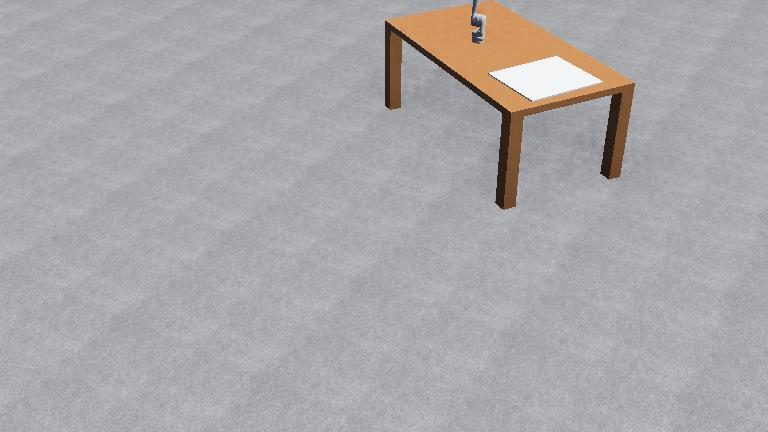
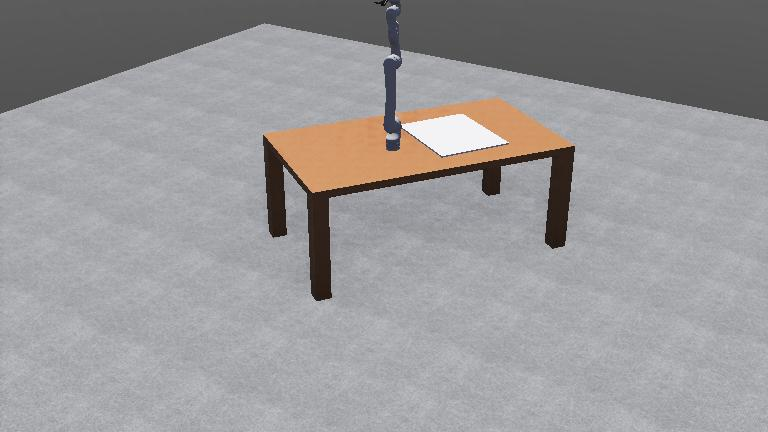
pen going over paper

Changed region(s): [[0.0, 0.0, 1.0, 0.6921], [0.4688, 0.4815, 0.5625, 0.5417]]

diff --git a/controllers/my_controller/my_controller.py b/controllers/my_controller/my_controller.py
@@ -10,12 +10,14 @@ robot = Robot()
 # get the time step of the current world.
 timestep = int(robot.getBasicTimeStep())
 
-target_shoulder_position = 0.6
-target_elbow_position = -2.1
-target_wrist_position = 1
+target_shoulder_position = 0.5
+target_elbow_position = -1.9
+target_wrist_position = 1.2
 target_shoulder_roll = 27
 target_left_finger = 0.7
 target_right_finger = 0.7
+target_wrist_roll = -1.6
+target_wrist_turn = -0.7
 
 
 shoulder_pitch_motor = robot.getDevice("joint_2")
@@ -36,6 +38,10 @@ wrist_pitch_sensor.enable(timestep)
 wrist_pitch_motor.setPosition(target_wrist_position)
 wrist_pitch_motor.setVelocity(0.5)
 
+wrist_turn_motor = robot.getDevice("joint_6")
+wrist_turn_sensor = robot.getDevice("joint_6_sensor")
+wrist_turn_sensor.enable(timestep)
+
 
 shoulder_roll_motor = robot.getDevice("joint_1")
 shoulder_roll_sensor = robot.getDevice("joint_1_sensor")
@@ -49,6 +55,10 @@ right_finger_sensor = robot.getDevice("ROBOTIQ 2F-140 Gripper right finger joint
 left_finger_sensor.enable(timestep)
 right_finger_sensor.enable(timestep)
 
+wrist_roll_motor = robot.getDevice("joint_4")
+wrist_roll_sensor = robot.getDevice("joint_4_sensor")
+wrist_roll_sensor.enable(timestep)
+
 while robot.step(timestep) != -1:
 
     # gripper grips when in place
@@ -61,6 +71,11 @@ while robot.step(timestep) != -1:
                 left_finger_motor.setVelocity(0.3)
                 right_finger_motor.setPosition(target_right_finger)
                 right_finger_motor.setVelocity(0.3)
+                wrist_roll_motor.setPosition(target_wrist_roll)
+                wrist_roll_motor.setVelocity(0.5)
+                wrist_turn_motor.setPosition(target_wrist_turn)
+                wrist_turn_motor.setVelocity(0.5)
+
                 
     # start line drawing once its gripped
     if abs(left_finger_sensor.getValue() - target_left_finger) < 0.01:
